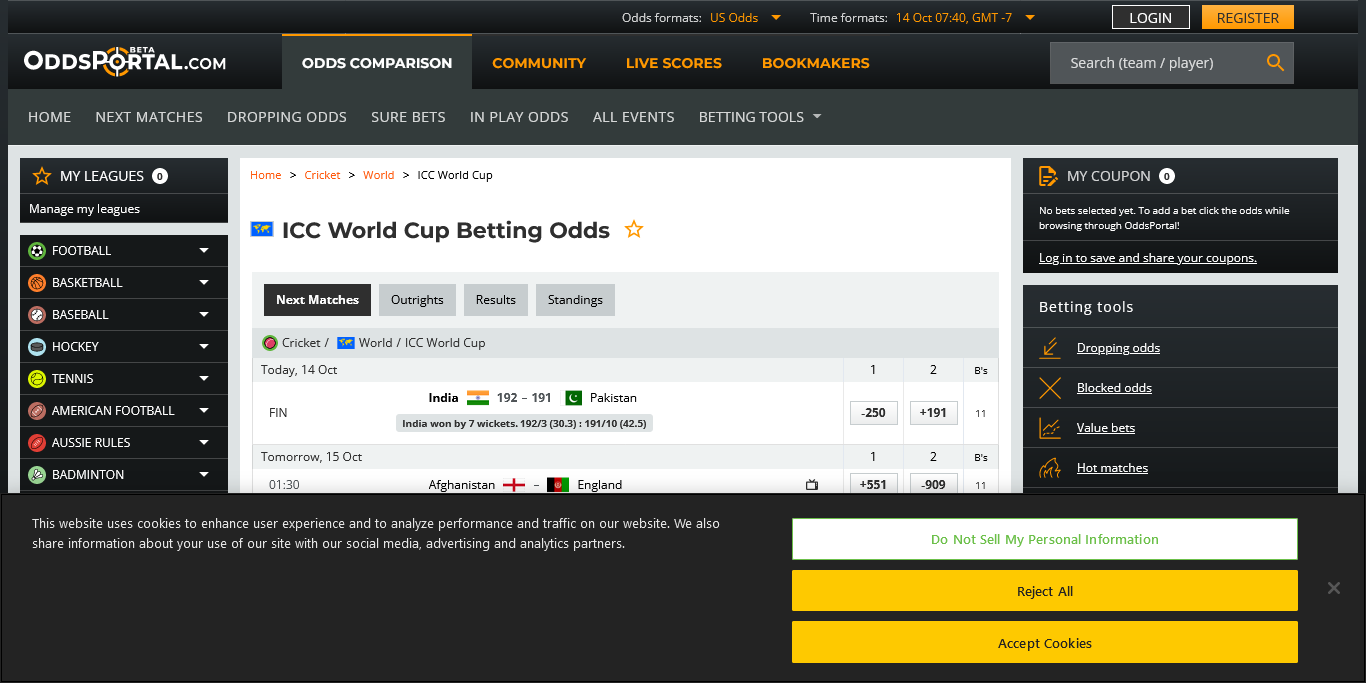
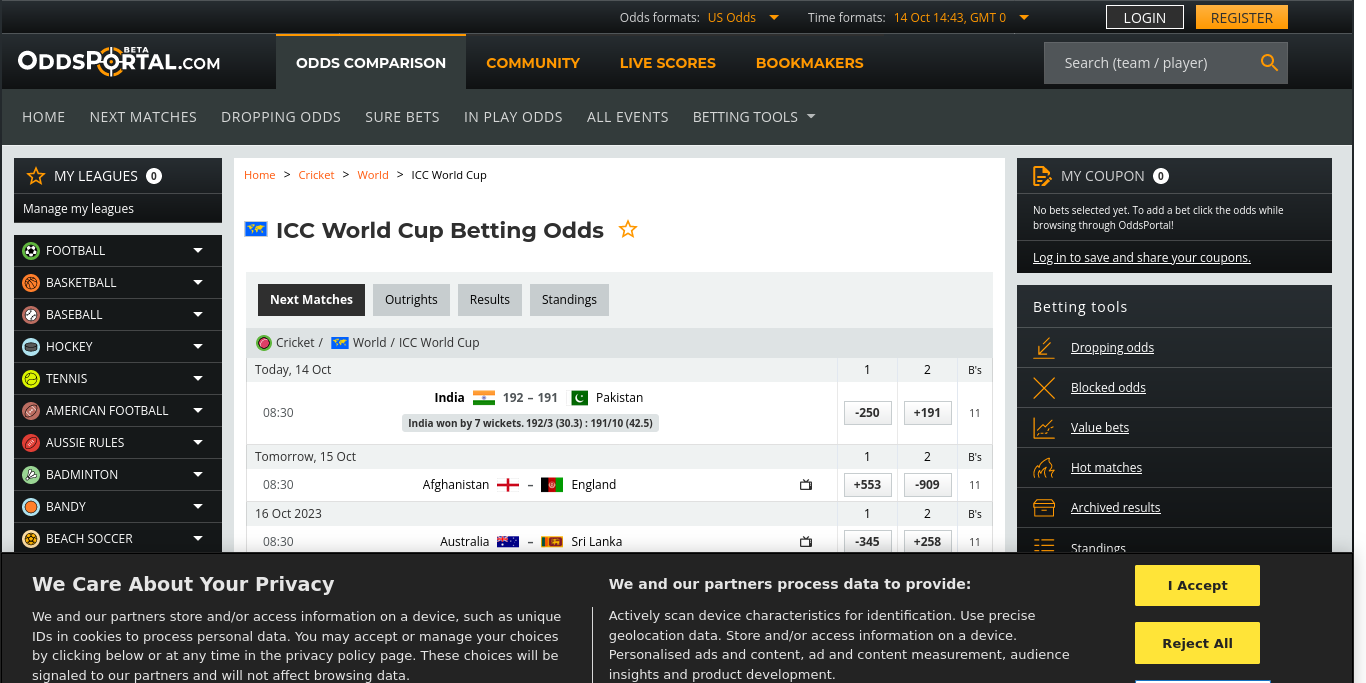
Update Data (Cron) Sat Oct 14 14:43:20 UTC 2023

diff --git a/src/nonview/data/TEAM1_ID_TO_TEAM2_ID_TO_ODDS_PAIR.js b/src/nonview/data/TEAM1_ID_TO_TEAM2_ID_TO_ODDS_PAIR.js
@@ -1,5 +1,5 @@
 // Auto Generated by workflows/update_team1_id_to_team2_id_to_odds_pair.py
-// www.oddsportal.com - 2023-10-14 21:10:46
+// www.oddsportal.com - 2023-10-14 20:13:20
 
 import { TEAM } from "../core/Team.js";
 
@@ -9,15 +9,15 @@ export const TEAM1_ID_TO_TEAM2_ID_TO_ODDS_PAIR = {
     [TEAM.BGD.id]: [1.11, 6.55],
   },
   [TEAM.ENG.id]: {
-    [TEAM.AFG.id]: [1.11, 6.51],
+    [TEAM.AFG.id]: [1.11, 6.53],
     [TEAM.ZAF.id]: [1.66, 2.23],
   },
   [TEAM.AUS.id]: {
-    [TEAM.LKA.id]: [1.29, 3.57],
+    [TEAM.LKA.id]: [1.29, 3.58],
     [TEAM.PAK.id]: [1.64, 2.27],
   },
   [TEAM.ZAF.id]: {
-    [TEAM.NLD.id]: [1.04, 10.77],
+    [TEAM.NLD.id]: [1.04, 10.76],
   },
   [TEAM.NZL.id]: {
     [TEAM.AFG.id]: [1.16, 5.33],

diff --git a/src/nonview/data/TEAM_ID_TO_P_WINNER.js b/src/nonview/data/TEAM_ID_TO_P_WINNER.js
@@ -1,14 +1,14 @@
 // Auto Generated by workflows/update_team_id_to_p_winner.py
-// www.oddsportal.com - 2023-10-14 13:34:05
+// www.oddsportal.com - 2023-10-14 20:13:04
 export const TEAM_ID_TO_P_WINNER = {
-  IND: 0.370566, // 37%
-  ZAF: 0.146374, // 15%
-  ENG: 0.135114, // 14%
-  NZL: 0.135114, // 14%
-  AUS: 0.109780, // 11%
-  PAK: 0.087824, // 9%
-  LKA: 0.008033, // 1%
-  BGD: 0.004369, // 0%
-  AFG: 0.001947, // 0%
-  NLD: 0.000877, // 0%
+  IND: 0.392043, // 39%
+  ZAF: 0.147016, // 15%
+  ENG: 0.135707, // 14%
+  NZL: 0.135707, // 14%
+  AUS: 0.110262, // 11%
+  PAK: 0.067854, // 7%
+  LKA: 0.005842, // 1%
+  BGD: 0.003514, // 0%
+  AFG: 0.001175, // 0%
+  NLD: 0.000881, // 0%
 };

diff --git a/src/nonview/data/ODI_ID_TO_WINNER.js b/src/nonview/data/ODI_ID_TO_WINNER.js
@@ -1,5 +1,5 @@
 // Auto Generated by workflows/update_odi_id_to_winner.py
-// www.cricbuzz.com - 2023-10-14 19:54:26
+// www.cricbuzz.com - 2023-10-14 20:13:11
 
 import { TEAM } from "../core/Team.js";
 
@@ -15,4 +15,5 @@ export const ODI_ID_TO_WINNER = {
   "ODI 09": TEAM.IND,
   "ODI 10": TEAM.ZAF,
   "ODI 11": TEAM.NZL,
+  "ODI 12": TEAM.IND,
 };

diff --git a/src/nonview/constants/VERSION.js b/src/nonview/constants/VERSION.js
@@ -1,4 +1,4 @@
 // Auto-generated by javascript_version.py
-export const VERSION_UT = 1697293476;
+export const VERSION_UT = 1697294600;
 export const VERSION_DATETIME = new Date(VERSION_UT * 1_000);
 export const LAST_COMMIT_MESSAGE = "Updated 📊Data"
